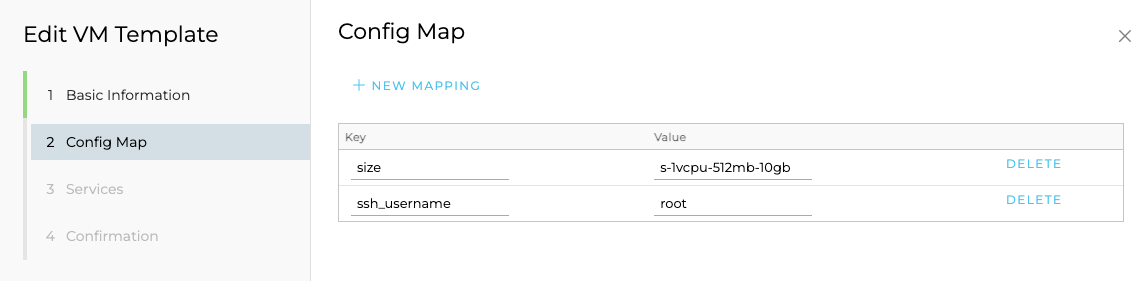
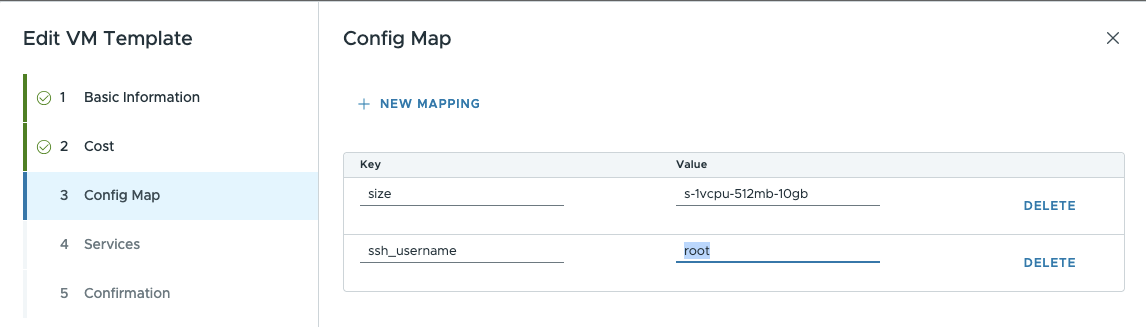
cost tracking

diff --git a/content/docs/configuration/costs.md b/content/docs/configuration/costs.md
@@ -1,0 +1,49 @@
++++
+title = "Costs"
+description = "Configure cost racking for resources."
+weight = 2
++++
+
+HobbyFarm allows cost tracking for a group of resources, known as a cost group. By default, costs are tracked for Virtual Machines and can be defined for VM Templates in the Admin-UI, as explained in the [VM Template section](docs/configuration/vmtemplates).
+
+Cost tracking works natively for default Kubernetes resource, but it is also possible to track costs for other resources.
+
+## Track costs for other resources
+
+To track costs for resources, the following rules must be followed:
+
+> **Rule:** Cost tracking is only supported for resources within the same namespace where HobbyFarm is deployed.
+> 
+> **Rule:** Cost tracking for a resource begins at its creation and ends upon its deletion.
+
+### Enable cost tracking or non default Kubernetes resources
+
+Adapt the `values.yaml` in the helm chart and add your custom resource in the `cost.trackableResources` list. Then deploy the helm chart.
+
+> **NOTE:** Please visit the [Helm Options](/docs/appendix/helm_options) page for more information.
+
+Cost tracking works natively for default Kubernetes resources.
+
+### Tracking costs for resources
+
+The tracking works by adding the following labels to your resource
+
+| Label Name                         | Description                                                                                    | Example         |
+|------------------------------------|------------------------------------------------------------------------------------------------|-----------------|
+| **_hobbyfarm.io/cost-group_**      | The name of the cost group.                                                                    | `my-cost-group` | 
+| **_hobbyfarm.io/cost-base-price_** | The base price for the resource. The base price must be a valid floating-point number.         | `0.00324`       |
+| **_hobbyfarm.io/cost-time-unit_**  | The optional time unit for the cost tracking. The time unit must be seconds, minutes or hours. | `seconds`       |
+
+When a resource with the required labels is created, a corresponding Cost resource is generated, including the `creation_unix_timestamp` property. Upon deletion of the resource, the Cost resource is updated to include the `deletion_unix_timestamp` property.   
+
+ 
+
+
+
+
+
+
+
+
+
+

diff --git a/content/docs/architecture/resources/cost.md b/content/docs/architecture/resources/cost.md
@@ -1,0 +1,88 @@
++++
+title = "Cost"
+description = "Entity to store resource costs."
++++
+
+The `Cost` resource in HobbyFarm tracks resource cost for one or more kubernetes resources. A single entity represents a cost group.
+
+
+## Kubernetes Commands
+The following commands are useful for managing Cost resources in Kubernetes.
+
+```bash
+## Get a list of all Costs
+kubectl get costs -n hobbyfarm-system
+
+## Delete a Cost
+kubectl delete cost {costName} -n hobbyfarm-system
+```
+
+## Example Cost Manifest
+The following is an example of a Cost resource in Kubernetes.
+
+```yaml
+# Cost group with one resource which is still running.
+apiVersion: hobbyfarm.io/v1
+kind: Cost
+metadata:
+  name: test-cost-group
+  namespace: hobbyfarm-system
+spec:
+  cost_group: test-cost-group
+  resources:
+    - base_price: 0.001 # float64
+      creation_unix_timestamp: 1735899136
+      id: vm-neuc2clllz # references the resource ID
+      kind: VirtualMachine # references the resource kind
+      time_unit: hours
+
+---
+
+# Cost group with one resource which is terminated.
+apiVersion: hobbyfarm.io/v1
+kind: Cost
+metadata:
+  name: test-cost-group
+  namespace: hobbyfarm-system
+spec:
+  cost_group: test-cost-group
+  resources:
+    - base_price: 0.001
+      creation_unix_timestamp: 1735899136
+      deletion_unix_timestamp: 1735899999 # deletion timestamp set
+      id: vm-neuc2clllz
+      kind: VirtualMachine
+      time_unit: hours
+
+
+
+```
+
+## Configuration
+
+### `cost_group`
+Represents the unique identifier for a cost group. 
+
+### `resources`
+A list of resources that are incurring or will incur costs within this cost group.
+
+#### `base_price`
+A floating-point value representing the base cost of a resource. This cost is applied for each defined time_unit.
+
+#### `creation_unix_timestamp`
+Records the creation time of a resource as a unix timestamp.
+
+#### `deletion_unix_timestamp`
+Indicates the deletion time of a resource as a Unix timestamp. If not provided, the resource is considered running.
+
+#### `id`
+A unique identifier for the tracked resource.
+
+#### `kind`
+Specifies the kind of the tracked resource.
+
+#### `time_unit`
+Defines the unit of time (seconds, minutes, or hours) used for cost calculation. The base_price is applied at each interval of the specified time_unit.
+
+
+

diff --git a/content/docs/appendix/helm_options.md b/content/docs/appendix/helm_options.md
@@ -119,6 +119,15 @@ ui:
 | `users.admin.enabled` | `false` | Creates the user, `admin`. |
 | `users.admin.password` | `$2a$10$9ToKMT37Z7K70xbCVnW9KOzEuPq0JyW/rA06gsukD4U9YfKFjMXTe` | Bcrypt hashed password for the `admin` user. Default value is `Sup3r@dmin`. |
 
+## Cost
+
+| Key                       | Default                            | Purpose                                                         |
+|---------------------------|------------------------------------|-----------------------------------------------------------------|
+| `cost.image`              | `hobbyfarm/cost-service:[version]` | Image used for the cost service.                                |
+| `cost.logLevel`           | `"0"`                              | Log level of the cost service.                                  |
+| `cost.apiPort`            | `80`                               | The port on which Cost API should be served.                    |
+| `cost.trackableResources` | `virtualmachines.hobbyfarm.io`     | List of all non default kubernetes resources for cost tracking. |
+
 ## Terraform
 
 > :warning::warning::warning: Terraform will be removed in a future version. It is NOT recommended to use Terraform as there are compatibility, instability and performance issues.

diff --git a/content/docs/configuration/vmtemplates.md b/content/docs/configuration/vmtemplates.md
@@ -27,6 +27,19 @@ The `Basic Information` section of the form is used to provide basic information
 
 > **NOTE:** Please visit the [Provider Images](/docs/appendix/provider_images) page for more information on provider images and how to find an image for a specific provider.
 
+### `Cost`
+
+The `Cost` section of the form is used to enable cost tracking for the VM Template.
+
+![VM Template - Cost](/images/hobbyfarm-admin-vmtemplate-cost.png)
+
+#### Variables
+
+| Setting          | Description                                                                                       |
+|------------------|---------------------------------------------------------------------------------------------------|
+| **_Base Price_** | The optional base price of the VM Template. The base price must be a valid floating-point number. |
+| **_Image_**      | The optional time unit for the cost tracking. The time unit must be seconds, minutes or hours.    |
+
 ### `Config Map`
 
 The `Config Map` section of the form is used to provide configuration information for the VM Template. Variables are passed in a key/value format, where the key is the name of the variable and the value is the value of the variable.
